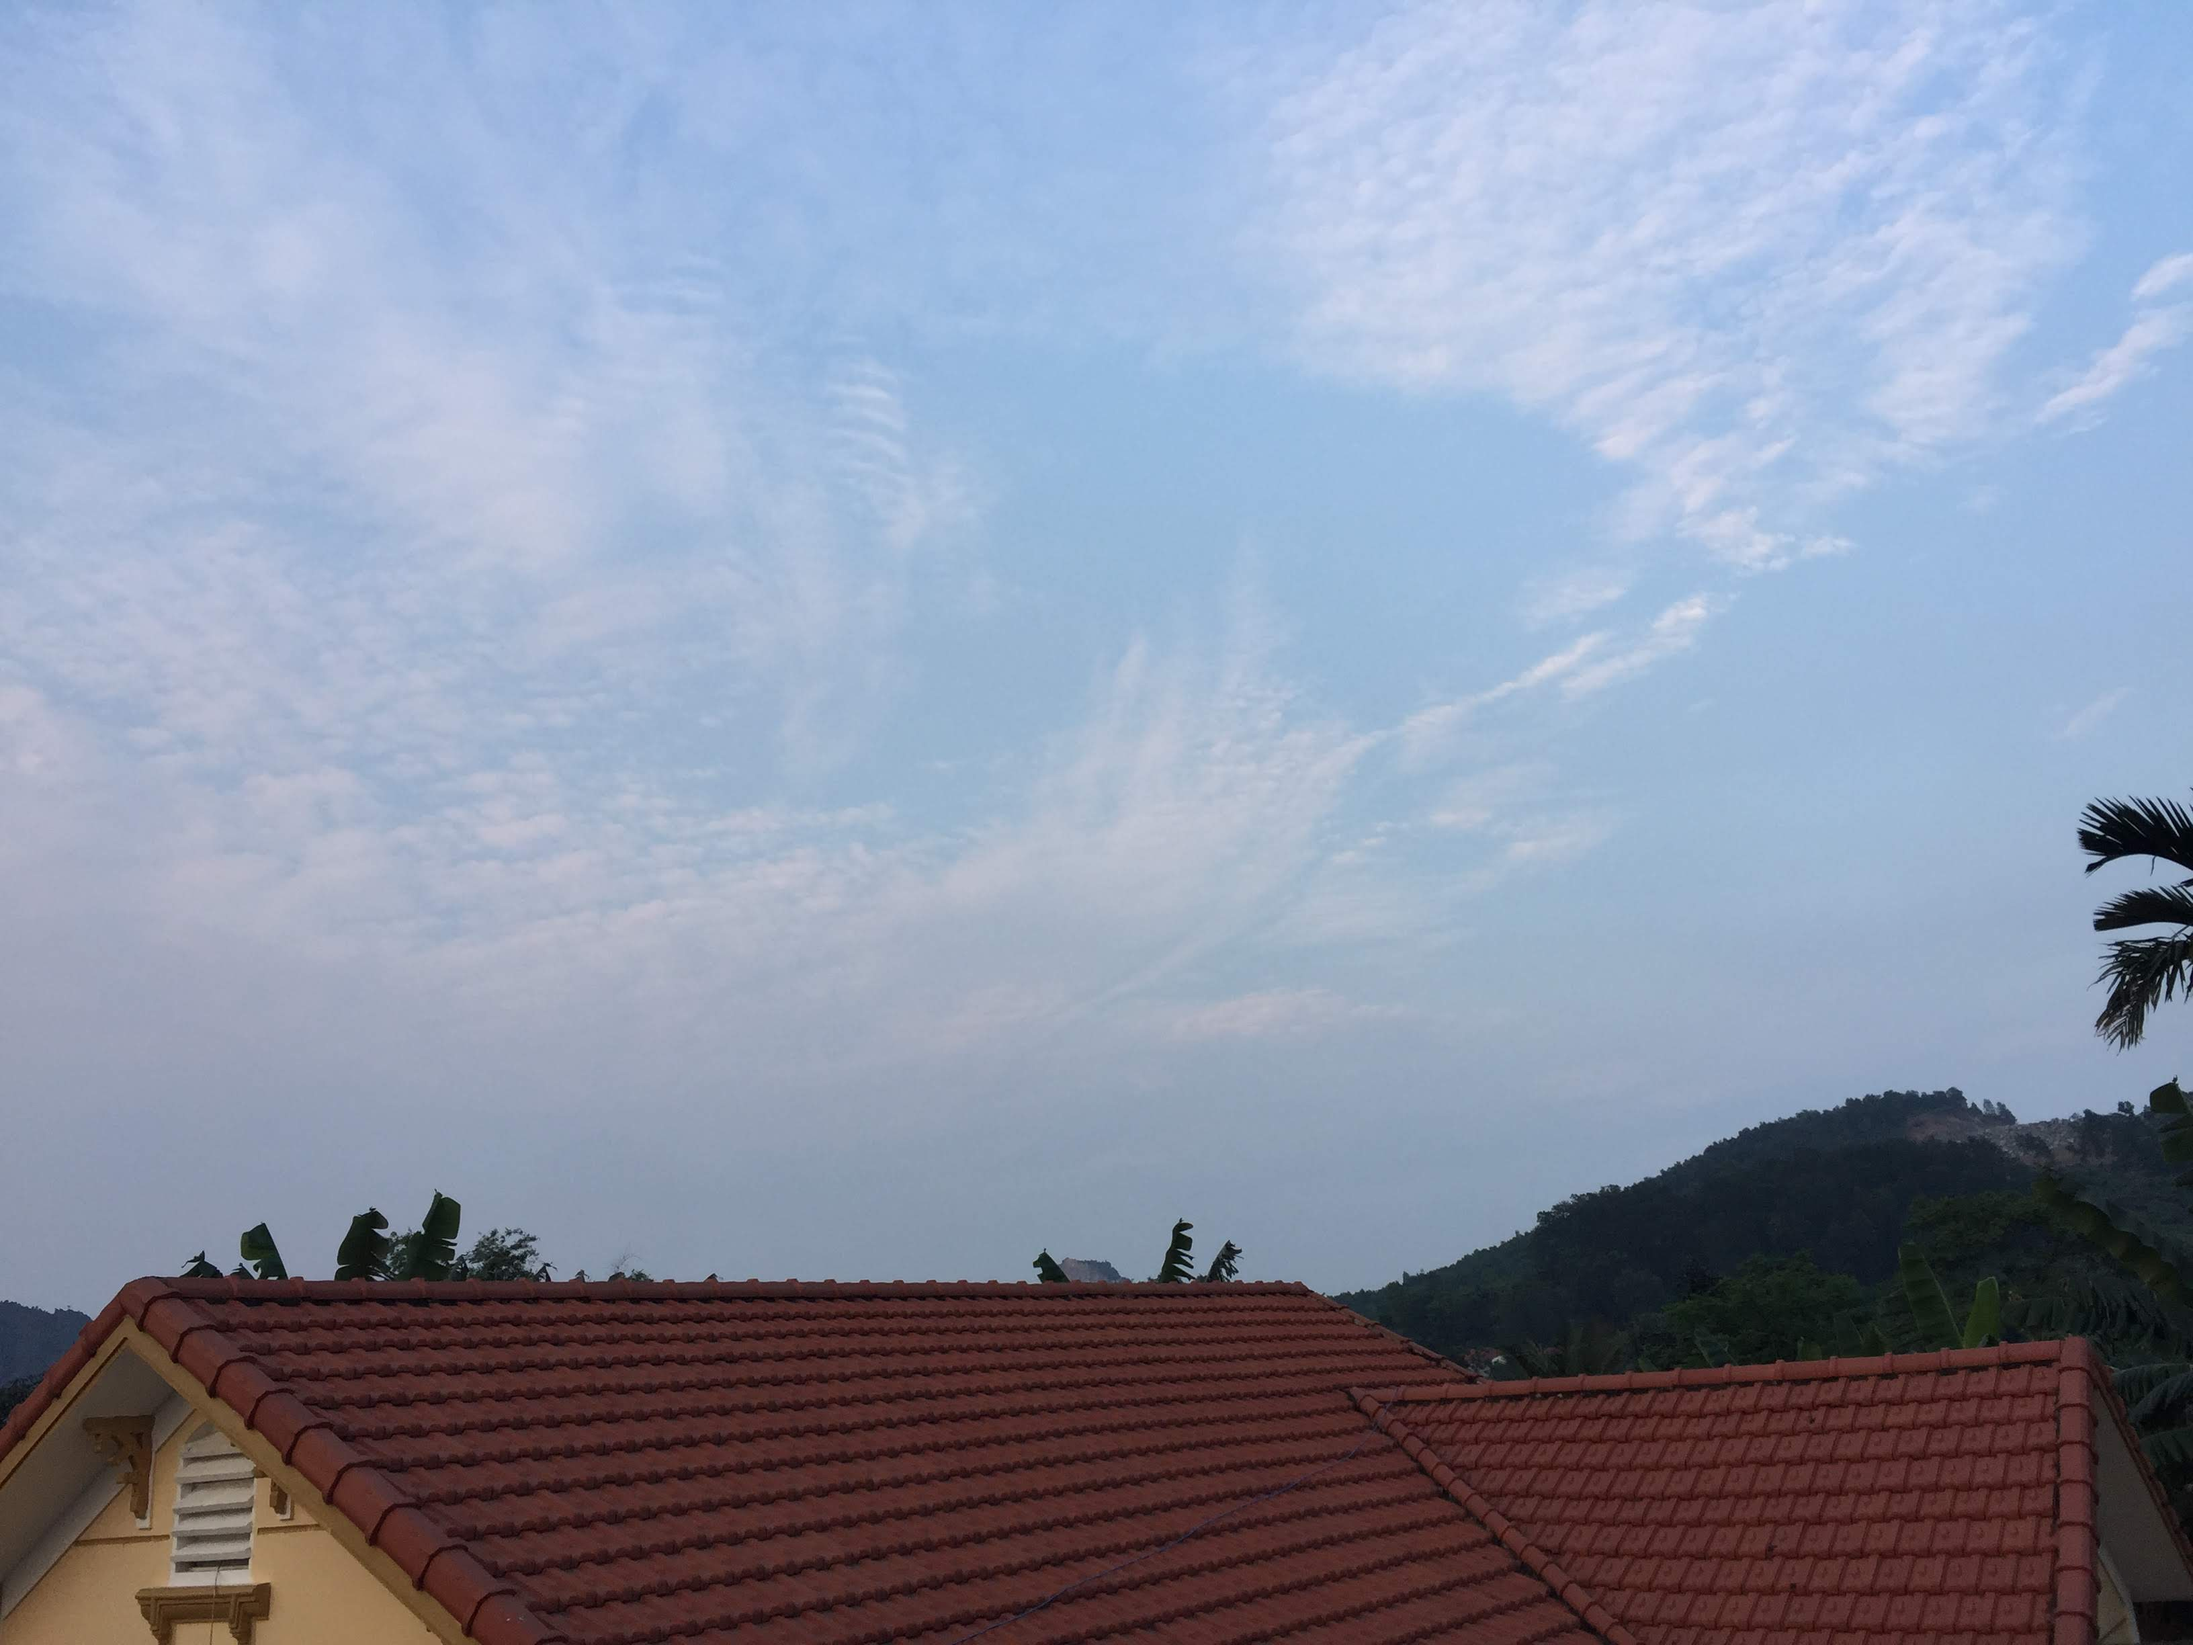
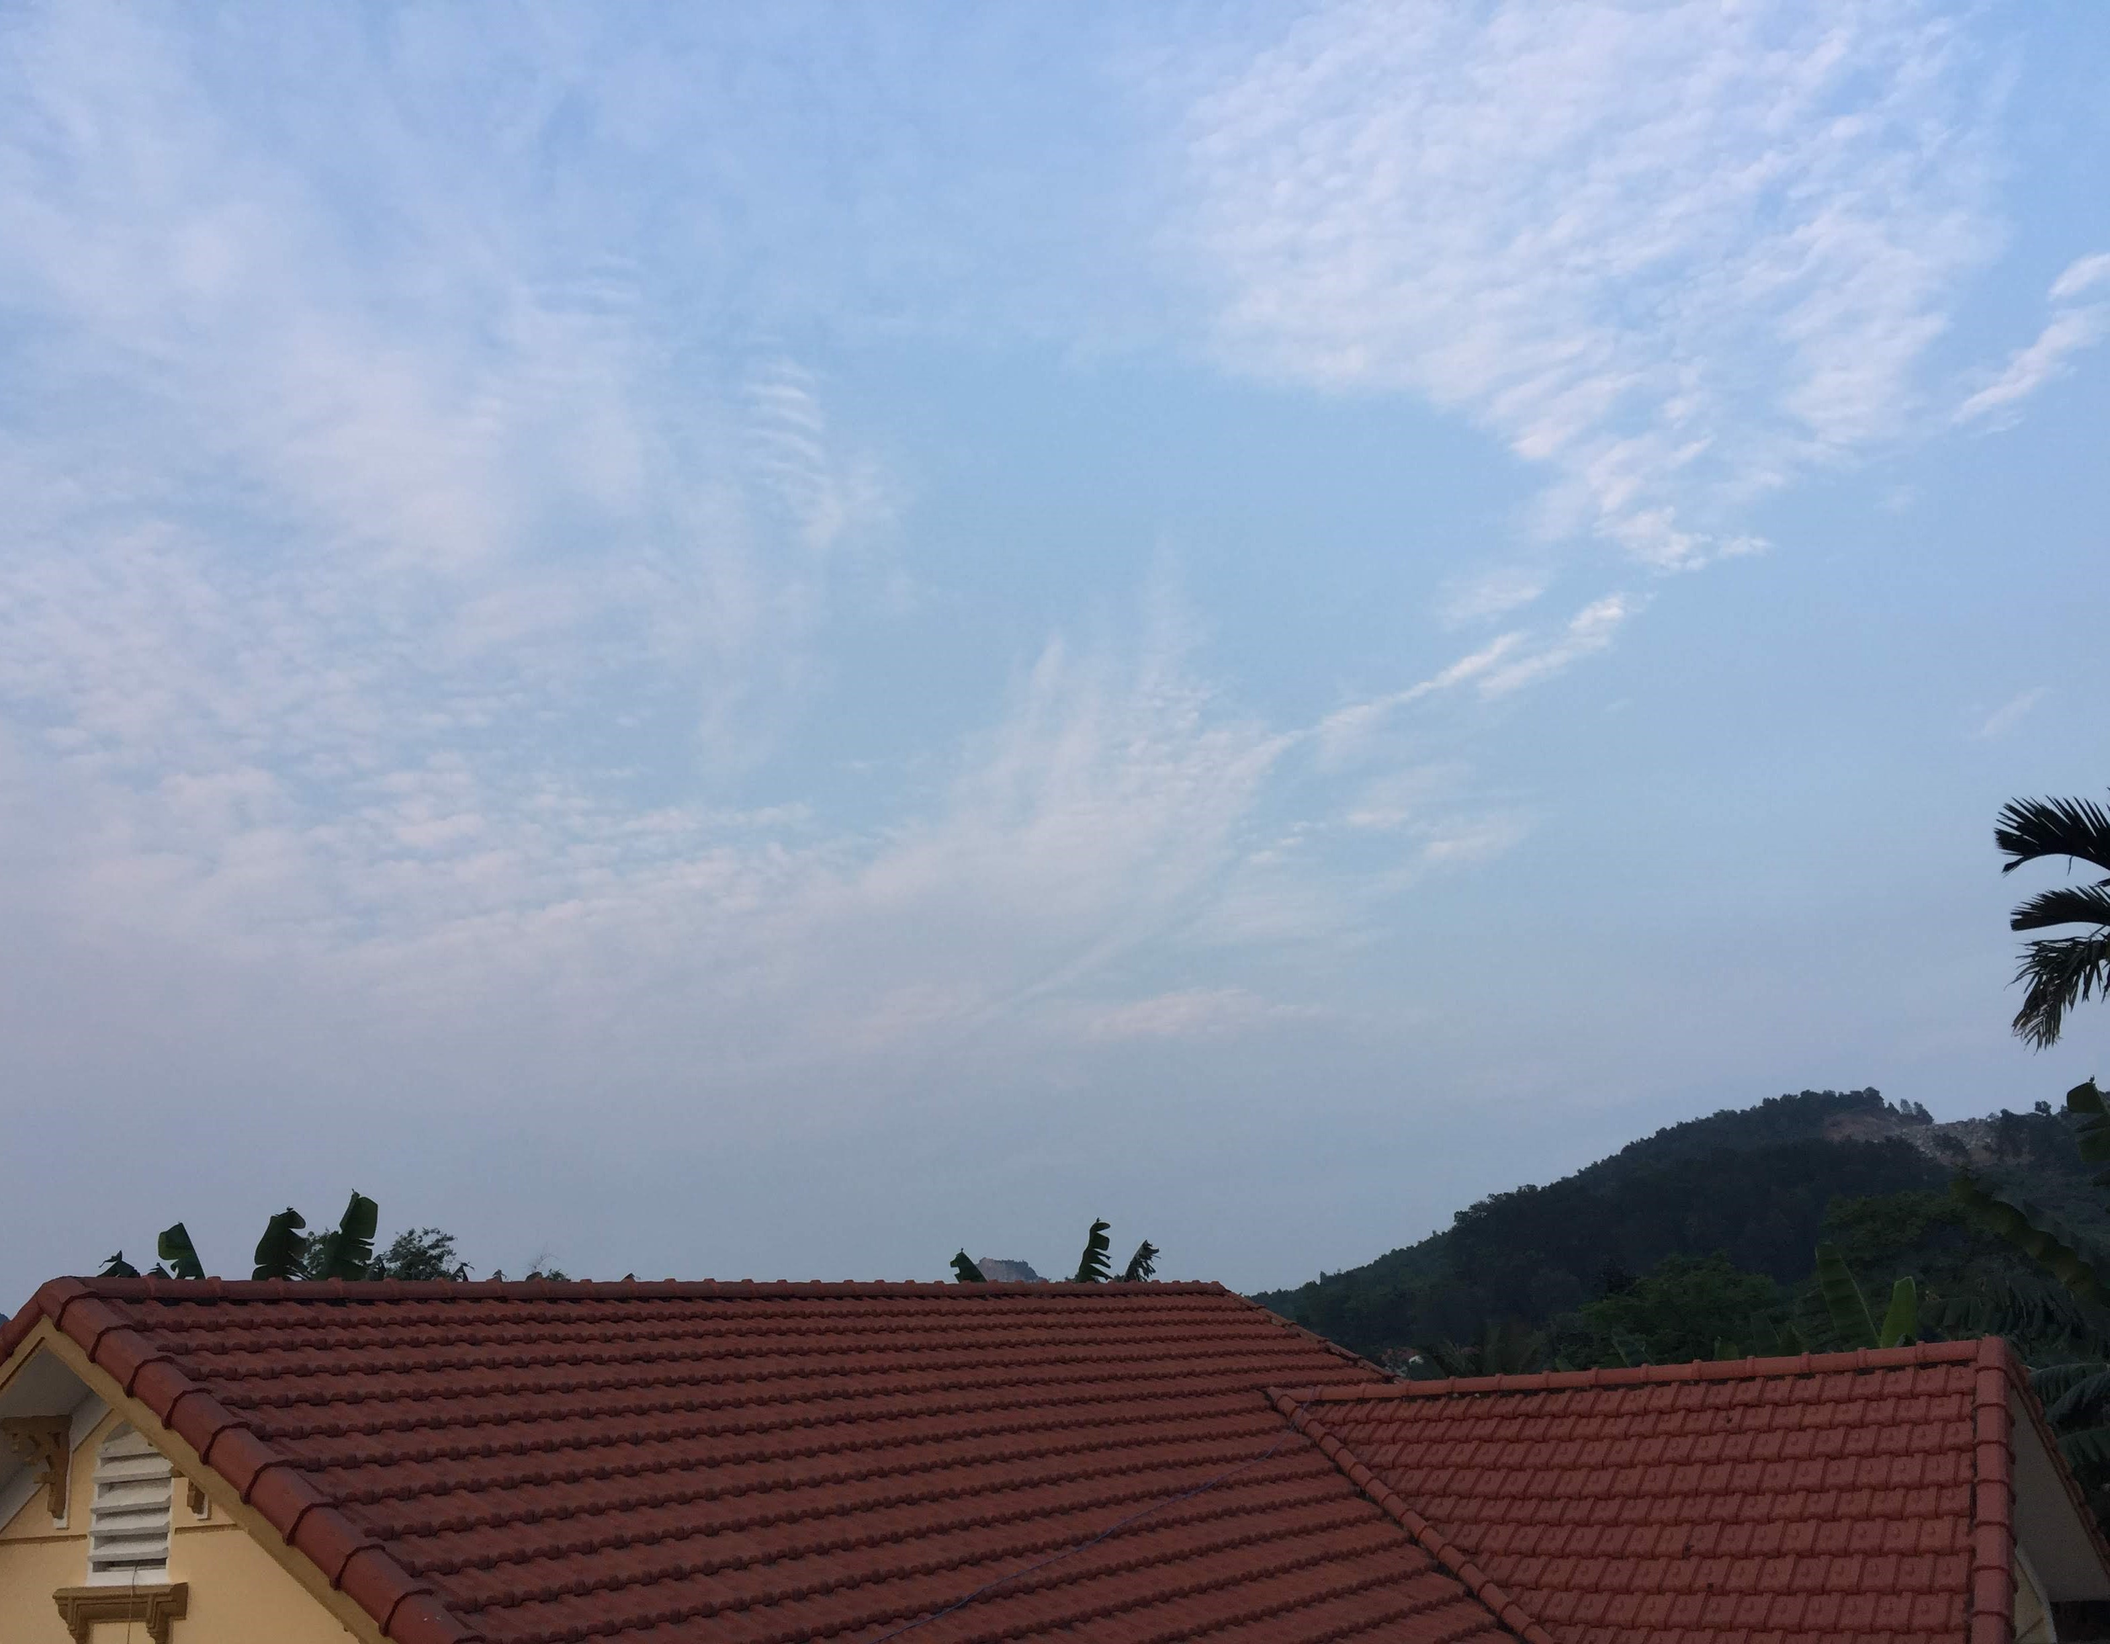
vietduc
vietuduc

diff --git a/index.html b/index.html
@@ -17,7 +17,8 @@
    <body>
       <nav class="navbar navbar-expand-lg navbar-dark">
          <a class="navbar-brand mx-auto" href="index.html">
-         <img src="img/logo.png" height="100" alt="Logo" >
+         <img src="img/logo.png" height="150" alt="Logo" style="border-radius: 50%;">
+        
          </a>
          <div id="toggler" class="wrapper custom-toggler navbar-toggler" data-toggle="collapse" data-target=".navbar-collapse">
             <div class="menu-toggle">
@@ -46,11 +47,12 @@
 			 <audio controls autoplay loop preload="auto">
     				<source src="vungkiuc.mp3" type="audio/mpeg">
 			</audio>	  
-		    <marquee>Đây là bài "Vùng kí ức" của Chillies - một band mình rất thích và mình rất thích bài này :3 </marquee>
+		    <p>Đây là bài "Vùng kí ức" của Chillies - một band mình rất thích và mình rất thích bài này :3 </p></div>
                </div>
             </div>
          </div>
       </div>
+      <div class="text">Welcome to my website</div>
       <!-- Javascript -->
       <script src="vendor/jquery.min.js"></script>
       <script src="vendor/bootstrap/js/bootstrap.min.js"></script>

diff --git a/css/style.css b/css/style.css
@@ -376,18 +376,18 @@ p {
 	background-size: cover;
 	background-position: center;
 	background-repeat: no-repeat;
-	height: 100vh;
+	height: 1200px;
 }
 
 .background-1 {
-	background-image: url("../img/back2.jpg");
+	background-image: url("../img/IMG_4745.JPG");
 }
 
 .background-2 {
 	background-image: url("../img/vietducfn.jpg");
 }
 .background-3 {
-	background-image: url("../img/back3.jpg");
+	background-image: url("../img/hn2021.png");
 }
 .split-image-right {
 	padding-top :  10rem;
@@ -516,4 +516,20 @@ p {
 audio {
     width: 300px;
     height: 54px;
+}
+
+.text{
+	font-size: 50px;
+    position: absolute;
+    top: 50%;
+    left: 50%;
+    z-index: 9999;
+	transform: translate(-50%,-50%);
+	color: rgba(12, 70, 136,0.7);
+	width: 560px;
+	height: 80px;
+	background: rgb(245, 255, 245,0.3);
+	display: flex;
+	justify-content: center;
+	align-items: center;
 }
